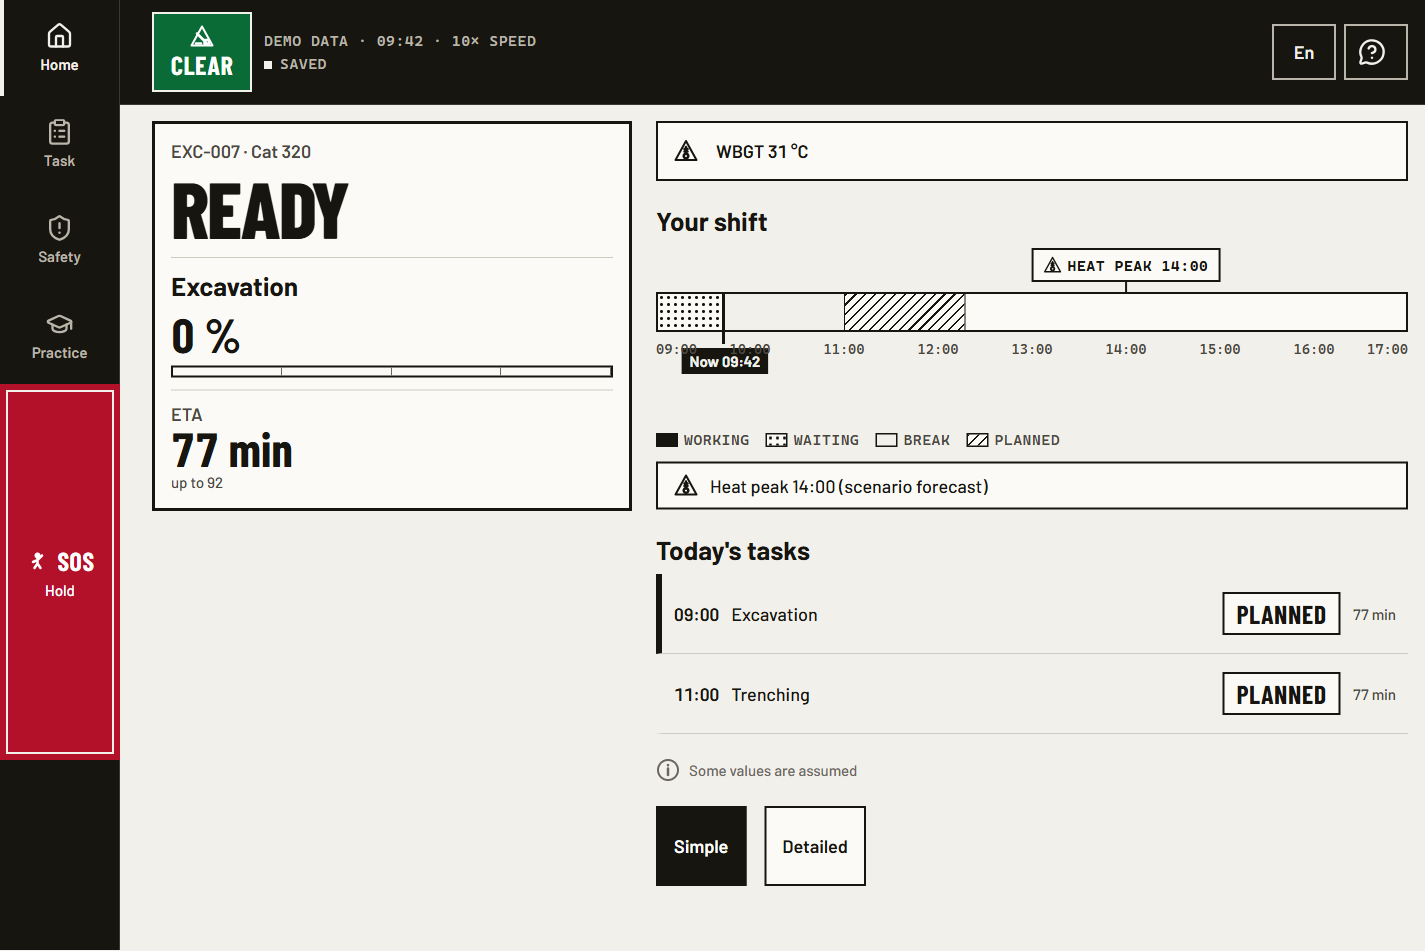
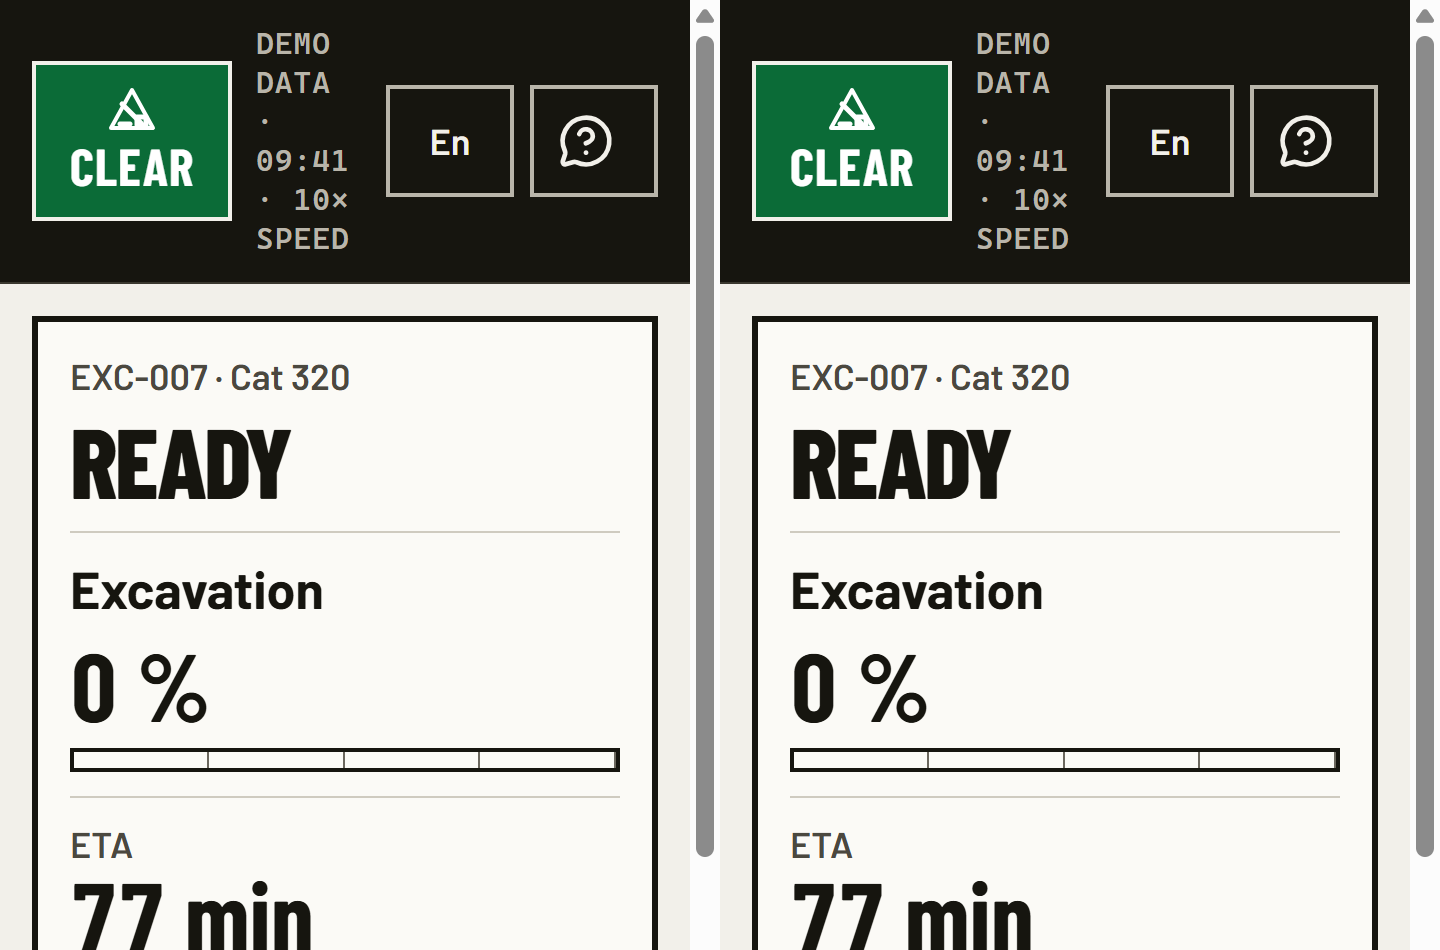
fix(web): bay-band-tape review fixes (Planned remainder, Sync only offline, own-assignment marks, Now label)

diff --git a/apps/web/src/components/home/shift-tape.tsx b/apps/web/src/components/home/shift-tape.tsx
@@ -2,17 +2,18 @@
 
 import Link from "next/link";
 import { useFormatter, useTranslations } from "next-intl";
+import { useLessonTitle } from "@/components/training/training-bits";
 import { Pictogram } from "@/components/ui/pictogram";
 import { useAppState } from "@/data/store";
-import { buildShiftSegments, tapePct, type SegmentKind } from "@/home/shift-segments";
+import { buildShiftSegments, tapePct, type SegmentKind, type ShiftMark } from "@/home/shift-segments";
 
 const KEY: SegmentKind[] = ["working", "waiting", "break", "planned"];
 
 /**
  * The shift tape: Working (solid ink), Waiting (dotted), Break (blank), Planned (hatched) across the
- * shift, a now-line that steps once per sim minute (no tween), and marks for breaches (linked to Replay)
- * and the forecast heat peak. The marks above the tape are labels; the rows under it are the targets
- * (80 px on phones), so nothing depends on hitting a small pin.
+ * shift, a now-line that steps once per sim minute (no tween), and marks for events with a replay
+ * (linked to Replay) and the forecast heat peak. The marks above the tape are labels; the rows under it
+ * are the targets (80 px on phones), so nothing depends on hitting a small pin.
  */
 export function ShiftTape() {
   const t = useTranslations("home.tape");
@@ -29,31 +30,21 @@ export function ShiftTape() {
   const tape = buildShiftSegments({ tasks, taskWork, alerts, assignments, eventTimes, weather }, clock.sim_now);
   const time = (ms: number) => format.dateTime(new Date(ms), "time");
   const pct = (ms: number) => tapePct(tape, ms);
+  const edge = (ms: number) => (pct(ms) < 14 ? "start" : pct(ms) > 86 ? "end" : undefined);
+  const summary = tape.segments.map((s) => `${t(s.kind)} ${time(s.startMs)} - ${time(s.endMs)}`).join("; ");
 
   return (
     <section className="tape" aria-label={t("title")}>
       <h2 className="t-title">{t("title")}</h2>
       <div className="tape-track">
         {tape.marks.map((m) => (
-          <span key={m.id} className="tape-pin t-caption" data-kind={m.kind} data-edge={pct(m.atMs) < 14 ? "start" : pct(m.atMs) > 86 ? "end" : undefined} style={{ insetInlineStart: `${pct(m.atMs)}%` }} aria-hidden="true">
-            <Pictogram name={m.kind === "heat" ? "heat" : "seatbelt"} />
-            {t(m.kind === "heat" ? "pinHeat" : "pinBreach", { time: time(m.atMs) })}
-          </span>
+          <Pin key={m.id} mark={m} time={time(m.atMs)} edge={edge(m.atMs)} left={pct(m.atMs)} />
         ))}
-        <div className="tape-lane" role="img" aria-label={t("range", { from: time(tape.startMs), to: time(tape.endMs) })}>
+        <div className="tape-lane" role="img" aria-label={`${t("range", { from: time(tape.startMs), to: time(tape.endMs) })}. ${summary}`}>
           {tape.segments.map((s, i) => (
-            <i
-              key={`${s.kind}-${i}`}
-              className="tape-seg"
-              data-kind={s.kind}
-              style={{ insetInlineStart: `${pct(s.startMs)}%`, width: `${pct(s.endMs) - pct(s.startMs)}%` }}
-              title={t(s.kind)}
-            />
+            <i key={`${s.kind}-${i}`} className="tape-seg" data-kind={s.kind} style={{ insetInlineStart: `${pct(s.startMs)}%`, width: `${pct(s.endMs) - pct(s.startMs)}%` }} />
           ))}
         </div>
-        <span className="tape-now" style={{ insetInlineStart: `${pct(tape.nowMs)}%` }}>
-          <span className="tnum">{t("now", { time: time(tape.nowMs) })}</span>
-        </span>
         <div className="tape-hours" aria-hidden="true">
           {tape.hours.map((h) => (
             <span key={h} className="tnum" style={{ insetInlineStart: `${pct(h)}%` }}>
@@ -61,6 +52,9 @@ export function ShiftTape() {
             </span>
           ))}
         </div>
+        <span className="tape-now" data-edge={edge(tape.nowMs)} style={{ insetInlineStart: `${pct(tape.nowMs)}%` }}>
+          <span className="tnum">{t("now", { time: time(tape.nowMs) })}</span>
+        </span>
       </div>
       <ul className="tape-key t-caption" aria-hidden="true">
         {KEY.map((k) => (
@@ -72,26 +66,49 @@ export function ShiftTape() {
       </ul>
       {tape.marks.length > 0 ? (
         <ul className="tape-rows" aria-label={t("marksTitle")}>
-          {tape.marks.map((m) => {
-            const label = m.kind === "heat" ? t("heat", { time: time(m.atMs) }) : m.href ? t("breachOpen", { time: time(m.atMs) }) : t("breach", { time: time(m.atMs) });
-            return (
-              <li key={m.id}>
-                {m.href ? (
-                  <Link href={m.href} prefetch={false} className="tape-row t-body">
-                    <Pictogram name="seatbelt" />
-                    {label}
-                  </Link>
-                ) : (
-                  <div className="tape-row t-body" data-static="true">
-                    <Pictogram name={m.kind === "heat" ? "heat" : "seatbelt"} />
-                    {label}
-                  </div>
-                )}
-              </li>
-            );
-          })}
+          {tape.marks.map((m) => (
+            <li key={m.id}>
+              <Row mark={m} time={time(m.atMs)} />
+            </li>
+          ))}
         </ul>
       ) : null}
     </section>
+  );
+}
+
+/** An event is named by its own assignment's lesson title; with no assignment it is a plain "Safety event". */
+function useMarkName(mark: ShiftMark): string {
+  const t = useTranslations("home.tape");
+  const title = useLessonTitle(mark.lessonCode ?? "");
+  return title ?? t("event");
+}
+
+function Pin({ mark, time, edge, left }: { mark: ShiftMark; time: string; edge: string | undefined; left: number }) {
+  const t = useTranslations("home.tape");
+  const name = useMarkName(mark);
+  return (
+    <span className="tape-pin t-caption" data-kind={mark.kind} data-edge={edge} style={{ insetInlineStart: `${left}%` }} aria-hidden="true">
+      <Pictogram name={mark.kind === "heat" ? "heat" : "seatbelt"} />
+      {mark.kind === "heat" ? t("pinHeat", { time }) : `${name} ${time}`}
+    </span>
+  );
+}
+
+function Row({ mark, time }: { mark: ShiftMark; time: string }) {
+  const t = useTranslations("home.tape");
+  const name = useMarkName(mark);
+  const label = mark.kind === "heat" ? t("heat", { time }) : `${name}, ${time}${mark.href ? `. ${t("openReplay")}` : ""}`;
+  const picto = mark.kind === "heat" ? "heat" : "seatbelt";
+  return mark.href ? (
+    <Link href={mark.href} prefetch={false} className="tape-row t-body">
+      <Pictogram name={picto} />
+      {label}
+    </Link>
+  ) : (
+    <div className="tape-row t-body" data-static="true">
+      <Pictogram name={picto} />
+      {label}
+    </div>
   );
 }

diff --git a/apps/web/src/home/shift-segments.ts b/apps/web/src/home/shift-segments.ts
@@ -19,6 +19,8 @@ export type ShiftMark = {
   atMs: number;
   /** Route that opens the real Replay for a breach with an assignment; null otherwise. */
   href: string | null;
+  /** The assignment's own lesson code, so the label names its event; null for an alert with no assignment. */
+  lessonCode: string | null;
 };
 export type ShiftTape = {
   startMs: number;
@@ -47,6 +49,9 @@ const ms = (iso: string) => Date.parse(iso);
  *    its worked time as Working from its planned start, then Waiting up to now.
  *  - Planned: a future task from its planned start for its p50 estimate; the unfinished part of a task
  *    running now continues as Planned for its remaining p50.
+ *  - A task paused, blocked or late keeps its remaining p50 as Planned after now, so no false Break follows it.
+ *  - A completed task is an estimate, not a measurement: the reducer drops its worked time on completion,
+ *    so it is drawn as Working from its planned start for its p50.
  *  - Break: a gap of 20 min or more between the end of one task and the start of the next.
  * Marks: one breach mark per replay assignment (linked to Replay), and one heat-peak mark from
  * `weather.forecast_peak_at` (a scenario forecast).
@@ -91,28 +96,31 @@ export function buildShiftSegments(input: ShiftInput, nowIso: string): ShiftTape
       const worked = Math.min(work?.workedMs ?? 0, Math.max(0, nowMs - planned));
       if (worked > 0) push("working", planned, planned + worked, task.id);
       push("waiting", planned + worked, nowMs, task.id);
-      end = nowMs;
+      const left = Math.max(0, p50 * (1 - Math.min(100, task.progress_pct) / 100));
+      push("planned", nowMs, nowMs + left, task.id);
+      end = nowMs + left;
     } else if (task.status === "completed") {
       end = Math.min(nowMs, planned + p50);
       push("working", planned, end, task.id);
     } else {
       // planned but already late: it is waiting
       push("waiting", planned, nowMs, task.id);
-      end = nowMs;
+      push("planned", nowMs, nowMs + p50, task.id);
+      end = nowMs + p50;
     }
     cursor = Math.max(cursor ?? 0, end);
   });
 
   const marks: ShiftMark[] = [];
   const breachAlert = input.alerts.find((a) => a.kind === "seatbelt_off_moving");
+  // Only an assignment whose event has a known time is marked, with its own lesson code; the rest are skipped.
   for (const a of input.assignments) {
-    if (!a.replay_id) continue;
-    const at = (a.because_event_id ? input.eventTimes[a.because_event_id] : undefined) ?? breachAlert?.first_seen;
-    if (!at) continue;
-    marks.push({ id: `breach:${a.id}`, kind: "breach", atMs: ms(at), href: `/op/training/replay/${a.replay_id}` });
+    const at = a.replay_id && a.because_event_id ? input.eventTimes[a.because_event_id] : undefined;
+    if (!a.replay_id || !at) continue;
+    marks.push({ id: `breach:${a.id}`, kind: "breach", atMs: ms(at), href: `/op/training/replay/${a.replay_id}`, lessonCode: a.lesson_code });
   }
-  if (marks.length === 0 && breachAlert) marks.push({ id: `breach:${breachAlert.alert_id}`, kind: "breach", atMs: ms(breachAlert.first_seen), href: null });
-  if (heatMs != null) marks.push({ id: "heat", kind: "heat", atMs: heatMs, href: null });
+  if (marks.length === 0 && breachAlert) marks.push({ id: `breach:${breachAlert.alert_id}`, kind: "breach", atMs: ms(breachAlert.first_seen), href: null, lessonCode: null });
+  if (heatMs != null && heatMs >= startMs) marks.push({ id: "heat", kind: "heat", atMs: heatMs, href: null, lessonCode: null });
   marks.sort((a, b) => a.atMs - b.atMs);
 
   const hours: number[] = [];

diff --git a/apps/web/src/home/shift-segments.test.ts b/apps/web/src/home/shift-segments.test.ts
@@ -33,15 +33,25 @@ describe("buildShiftSegments", () => {
   it("shows a paused task as Working for the worked time, then Waiting", () => {
     const t = task({ status: "paused" });
     const tape = buildShiftSegments(input({ tasks: [t], taskWork: { [t.id]: { workedMs: 20 * 60_000, runningSince: null } } }), T0);
-    expect(tape.segments.map((s) => [s.kind, (s.endMs - s.startMs) / 60_000])).toEqual([
+    expect(tape.segments.map((s) => [s.kind, Math.round((s.endMs - s.startMs) / 60_000)])).toEqual([
       ["working", 20],
       ["waiting", 20],
+      ["planned", 50], // 35 % done of a 77 min estimate: the rest stays Planned after now
     ]);
   });
 
   it("treats a blocked-PPE task with no work as Waiting from its planned start", () => {
     const tape = buildShiftSegments(input({ tasks: [task({ status: "blocked_ppe" })] }), T0);
-    expect(tape.segments.map((s) => s.kind)).toEqual(["waiting"]);
+    expect(tape.segments.map((s) => s.kind)).toEqual(["waiting", "planned"]);
+  });
+
+  it("keeps the remaining work of a late or paused task up to the next task, so no false Break appears", () => {
+    const late = task({ id: "late", status: "planned", planned_start: at("09:00"), eta_p50_min: 77, progress_pct: 0 });
+    const next = task({ id: "next", status: "planned", planned_start: at("11:00"), eta_p50_min: 60, progress_pct: 0 });
+    for (const first of [late, task({ id: "late", status: "paused", progress_pct: 0, eta_p50_min: 77 }), task({ id: "late", status: "blocked_ppe", progress_pct: 0, eta_p50_min: 77 })]) {
+      const tape = buildShiftSegments(input({ tasks: [first, next], assignments: [] }), T0);
+      expect(tape.segments.some((s) => s.kind === "break")).toBe(false);
+    }
   });
 
   it("draws a future task as Planned and a long gap before it as Break", () => {
@@ -76,11 +86,18 @@ describe("buildShiftSegments", () => {
     expect(tape.marks.map((m) => m.kind)).toEqual(["breach", "heat"]);
   });
 
-  it("falls back to the alert time when the event time is unknown, and to an unlinked mark with no assignment", () => {
+  it("marks an assignment with its own lesson code, skips one with an unknown event time, and falls back to the alert with no assignment", () => {
+    const t0 = buildShiftSegments(input({ eventTimes: { [IDS.event]: T0 } }), T0);
+    expect(t0.marks.find((m) => m.kind === "breach")!.lessonCode).toBe(snap.assignments[0]!.lesson_code);
     const t1 = buildShiftSegments(input(), T0);
-    expect(t1.marks.find((m) => m.kind === "breach")!.atMs).toBe(ms(snap.active_alerts[0]!.first_seen));
+    expect(t1.marks.filter((m) => m.href !== null)).toEqual([]);
     const t2 = buildShiftSegments(input({ assignments: [] }), T0);
     expect(t2.marks.find((m) => m.kind === "breach")!.href).toBeNull();
+  });
+
+  it("drops a heat peak that is before the tape starts", () => {
+    const w = { ...snap.weather!, forecast_peak_at: "2026-09-24T05:00:00.000+05:30" };
+    expect(buildShiftSegments(input({ weather: w }), T0).marks.some((m) => m.kind === "heat")).toBe(false);
   });
 
   it("has no heat mark without a forecast, and the tape covers the peak", () => {

diff --git a/apps/web/src/components/chrome/status-strip.tsx b/apps/web/src/components/chrome/status-strip.tsx
@@ -35,7 +35,8 @@ export function StatusStrip({ showSafety = true, title, actions }: { showSafety?
 
   const connText = dataLabel({ connectivity, clock, t, formatTime: (ms) => format.dateTime(new Date(ms), "time") });
   const sync = syncState(connectivity);
-  const syncText = sync.kind === "saved" ? t("chrome.syncSaved") : sync.kind === "queued" ? t("chrome.syncQueued", { n: sync.n }) : t("chrome.syncOffline", { n: sync.n });
+  // No outbox exists yet, so "Saved" or "n queued" would claim something nothing measured: the cell shows only when offline.
+  const syncText = sync.kind === "offline" ? t("chrome.syncOffline", { n: sync.n }) : null;
 
   return (
     <header className="strip" inert={lockShown || undefined}>
@@ -56,9 +57,12 @@ export function StatusStrip({ showSafety = true, title, actions }: { showSafety?
         <span className="strip-cap t-caption" data-conn={connectivity.kind}>
           {connText}
         </span>
-        <span className="strip-sync t-caption" data-state={sync.kind} aria-label={`${t("chrome.syncLabel")}: ${syncText}`}>
-          {syncText}
-        </span>
+        {syncText ? (
+          <span className="strip-sync t-caption" data-state={sync.kind}>
+            <span className="tape-sr">{t("chrome.syncLabel")}: </span>
+            {syncText}
+          </span>
+        ) : null}
       </div>
       <div className="strip-actions">{actions}</div>
     </header>

diff --git a/apps/web/src/styles/shift-tape.css b/apps/web/src/styles/shift-tape.css
@@ -8,7 +8,7 @@
 .tape-track {
   position: relative;
   padding-top: 44px;
-  padding-bottom: 56px;
+  padding-bottom: 40px;
   min-width: 0;
 }
 .tape-lane {
@@ -47,13 +47,13 @@
 .tape-now {
   position: absolute;
   top: 44px;
-  height: 52px;
+  height: 74px;
   width: 0;
   border-inline-start: 3px solid var(--ink);
 }
 .tape-now > span {
   position: absolute;
-  bottom: -30px;
+  top: 74px;
   left: 0;
   transform: translateX(-50%);
   padding: 0 var(--s-2);
@@ -62,6 +62,20 @@
   font-weight: 700;
   font-size: 15px;
   line-height: 26px;
+  white-space: nowrap;
+}
+.tape-now[data-edge="start"] > span {
+  transform: none;
+}
+.tape-now[data-edge="end"] > span {
+  transform: translateX(-100%);
+}
+.tape-sr {
+  position: absolute;
+  width: 1px;
+  height: 1px;
+  overflow: hidden;
+  clip-path: inset(50%);
   white-space: nowrap;
 }
 .tape-pin {

diff --git a/docs/sessions/track-f.md b/docs/sessions/track-f.md
@@ -53,3 +53,4 @@
 - 2026-11-12 | F19 Ask Spotter (S6) | DONE | lane/l2-f19-ask | typecheck, lint clean; web vitest 37 files 420 tests; shared 144 tests; build green | fixtures-first (shared fixtures/ask.ts, keyword routing, SIM caption); DataPort.ask added, FixtureAdapter answers; NO Supabase adapter exists yet so askViaFunctions (ask.ts, tested) maps any failure to provider_down and there is NO deployed ask function; A18 opens a separate A13 instance prefilled (kind, note; severity left to operator); Ask hidden in motion lock + replay, no first-launch concept exists in the shell so not gated; photo compressed client-side, no upload; hi done, ta falls back
 - 2026-11-12 | F19 review fixes | DONE | lane/l2-f19-ask | typecheck, lint clean; web vitest 37 files 425 tests; shared 144; build green; origin/main already merged | suggestions route by exact en/hi text + Hindi keywords (tested per locale); A13 copy stays mounted through motion lock, focus returns to chip, ledgerSeq wired, idPrefix avoids duplicate ids; Review is secondary; citations retitled '(demo)' (OSHA quote unverifiable); steps capped at 3; photo blob kept, 15 MB cap; unknown incident type leaves kind null; override no longer a policy refusal; degraded fixture consistent. Not done: AskChip A18 wiring test (no DOM test env)
 - 2026-11-12 | bay-band-tape (D17 T1+T4) | DONE | lane/l2-bay-band-tape | typecheck, lint clean; web vitest 41 files 448 tests (new: shift-segments, sync-state, data-label); build green; no h-scroll at 360 | no outbox in store so Sync queued count is 0 (syncState takes n); label from chrome/data-label.ts dataLabel(); breach row/pin only appear once the breach exists
+- 2026-11-12 | bay-band-tape review fixes | DONE | lane/l2-bay-band-tape | typecheck, lint clean; web vitest 41 files 450 tests; build green | late/paused/blocked keep Planned remainder; Sync cell only when offline; marks use own assignment lesson + known event time; Now label below ticks with edge handling; Lows 5,6,7(doc),8(heat drop only),9 done; pin-overlap offset skipped
